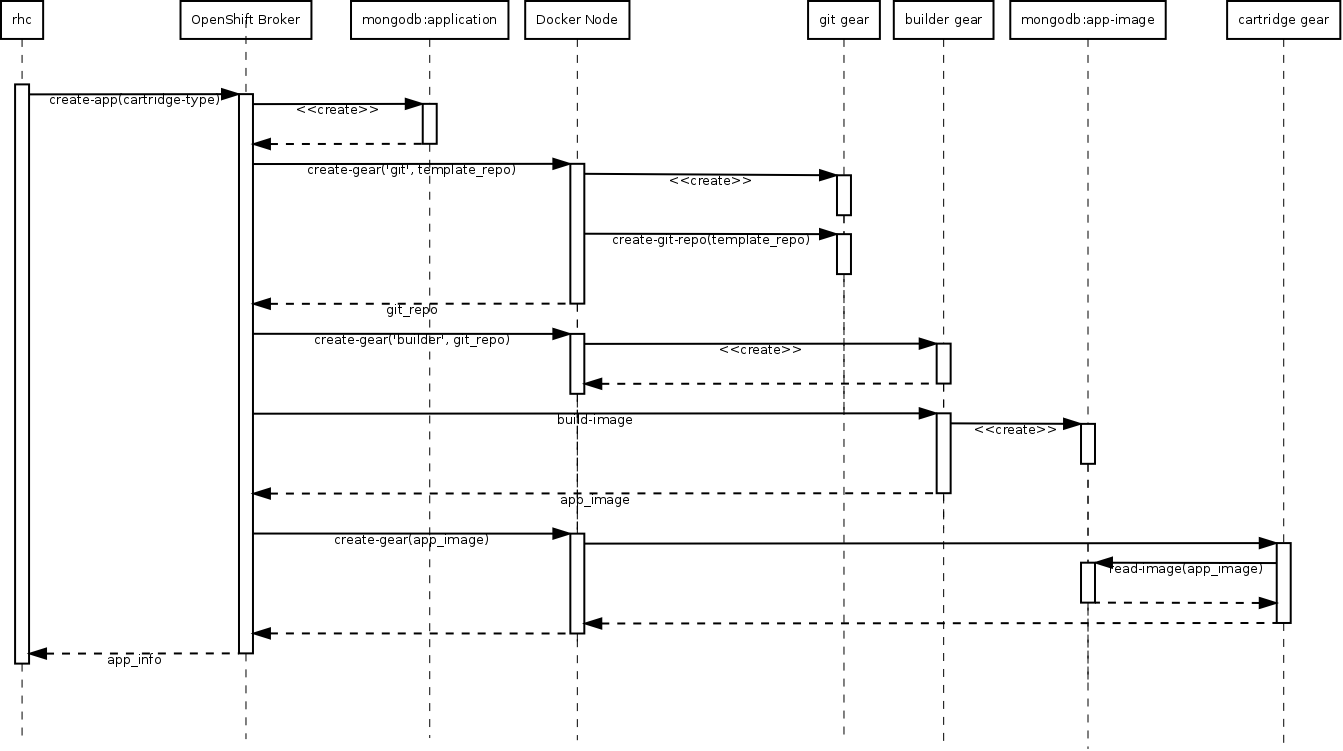
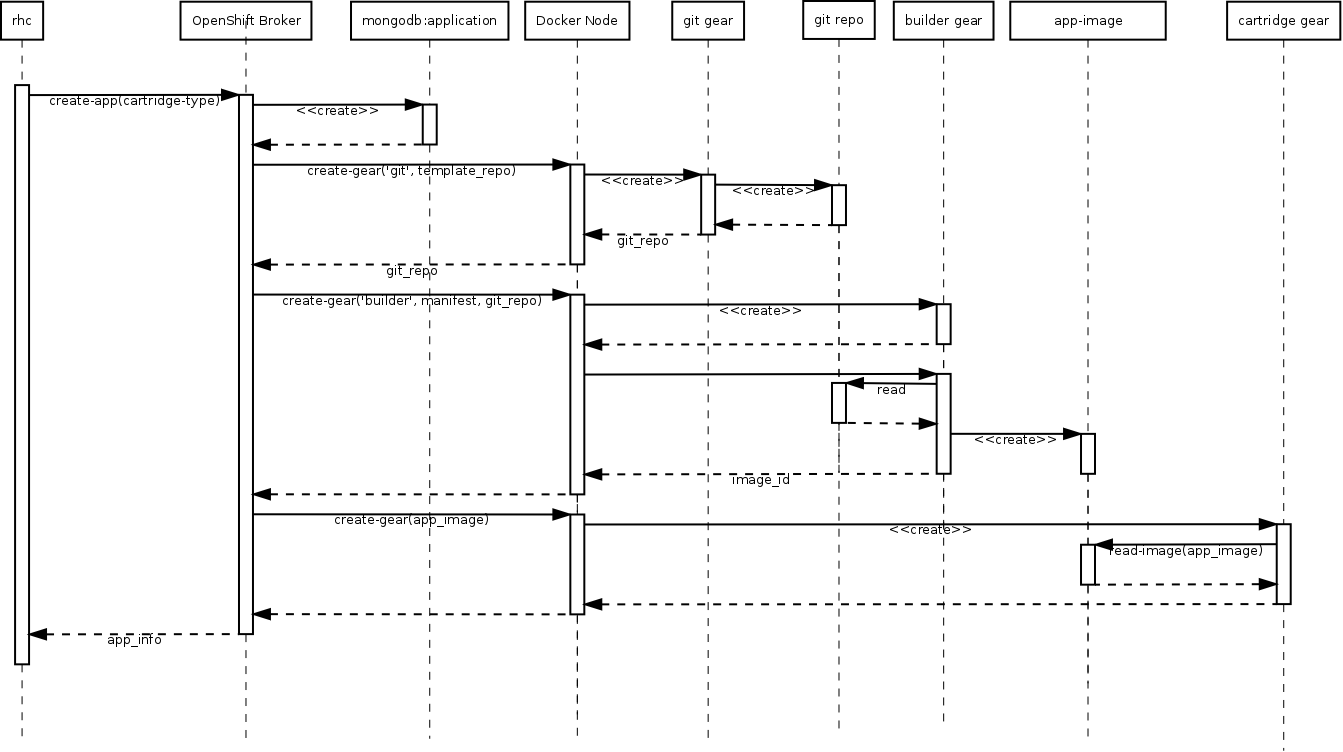
WIP: refine app creation workflow

diff --git a/openshift-pep-010-docker-cartridges.md b/openshift-pep-010-docker-cartridges.md
@@ -149,26 +149,24 @@ The basic app creation workflow is as follows:
 1. An OpenShift user calls `rhc app-create <type>`
 2. `rhc` makes a rest call to the OpenShift broker to create a new application of the specified type
 3. The OpenShift broker creates a record for the new application
-4. The OpenShift broker makes a call to a Docker node to create a git gear, using the template for the cartridge for the default contents of the repo
-5. The OpenShift broker makes a call to create a builder gear from the cartridge image
-6. The OpenShift broker makes a call to the git gear to copy the contents of the git repo to the builder gear
-7. The OpenShift broker makes a call to the builder gear to create an image of the app by combining the git repo with the cartridge image.
-    1. The builder gear creates a new image for the application by combining the git repo with the cartridge base image (TODO: more detail)
-    2. The builder gear publishes the new application image to a private image repo
-8. The OpenShift broker make a call to create a new gear from the new application image
+4. The broker makes a call to a Docker node to create a git gear, passing the template git repo URL
+    1. The node downloads the specified template repo
+    2. The node creates a new git repository from the template content
+5. The broker starts the prepare workflow.
 
-### Preparation
+The prepare workflow is as follows:
 
-To prepare a new gear, OpenShift will:
-
-1. Start a new **preparation gear** based on the primary cartridge image selected
-2. Bind mount a tarball of the source code for the cartridge into a known directory
-3. Either invoke a command defined in the manifest via "docker attach" or use the run command of the cartridge image itself
-4. Command can invoke user defined hooks in the repo for build/deploy
-5. Wait for the container to start/finish
-6. Extract any necessary stateful information (environment variables, cartridge hooks, dynamic network endpoints)
-7. Perform a docker commit, push the docker image to the application owner's repository, and then report the new DA id to the broker
-8. The broker now knows that a new DA is available
+1. The broker makes a call to create a builder gear, passing the manifest and git repo:
+    1. The node downloads the application git repo into a known directory for bind-mount into the builder gear container
+    2. If the manifest defines a prepare command, starts the container with `docker run -e <prepare cmd>`
+    3. If not, the node starts the container with `docker run`
+    4. The node waits for the container to finish running, imposing a timeout
+    5. The node extracts (method TBD) any necessary stateful information such as: environment variables, cartridge hooks, dynamic network endpoints
+    6. The node performs a docker commit
+    7. The node pushes the docker image to the application's private docker registry
+    8. The node reports the new deployment artifact (DA) id to the broker
+2. The broker creates a new (DA) record for the application
+3. The broker starts the deploy workflow
 
 A prepare may result in the version of a cartridge in use changing in the broker - it may have been input by the developer at build time.  An application may have multiple cartridge versions in different gears as a result of a deploy.  The broker should gracefully handle rollforward and rollback of this scenario:
 
@@ -177,15 +175,14 @@ A prepare may result in the version of a cartridge in use changing in the broker
 3. Rollback to v1
 4. Next build and deployment should use PHP-5.3
 
-
 ### Deployment
 
 The deployment process is as follows:
 
 1. Prepare a new version of the cartridge and get a DA id
 2. Take the id of the new DA and begin updating the gears in the gear group with that new artifact
-   * For web cartridges, a scale up, scale down operation is ideal.
-   * For DB / stateful cartridges, a replace in place is ideal - stop the old container, keep the old stateful directories and ports as is, and then start the new container.
+    1. For web cartridges, a scale up, scale down operation is ideal.
+    2. For DB / stateful cartridges, a replace in place is ideal - stop the old container, keep the old stateful directories and ports as is, and then start the new container.
 3. Once all gears are using the new DA, check whether the old DA should be deleted
 
 
